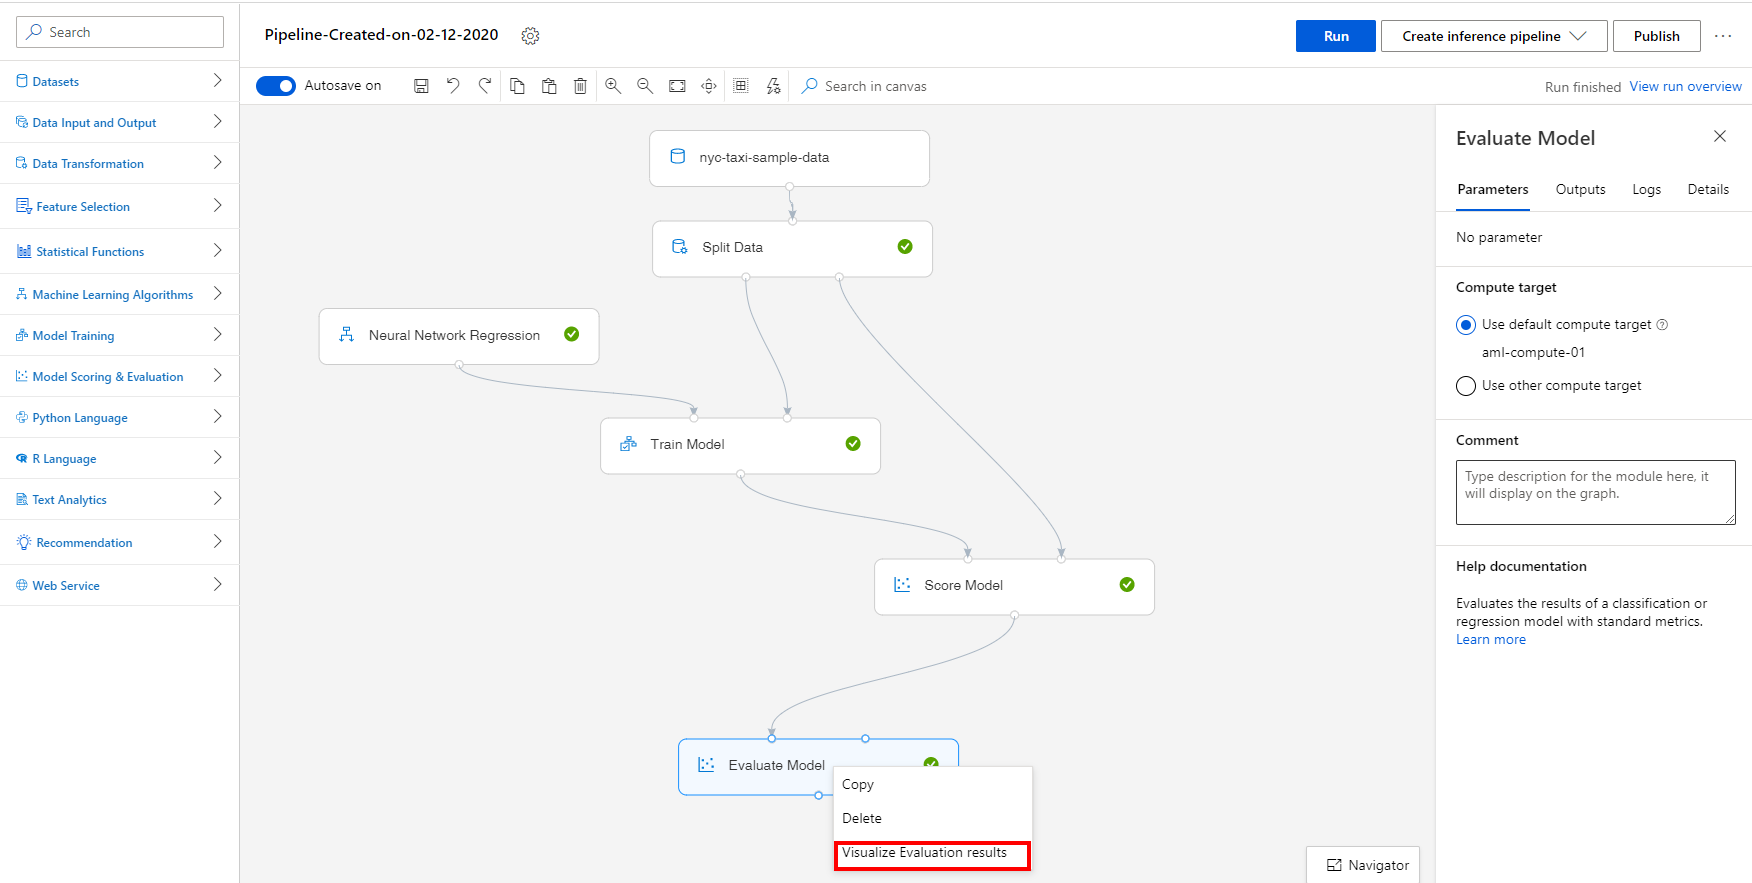
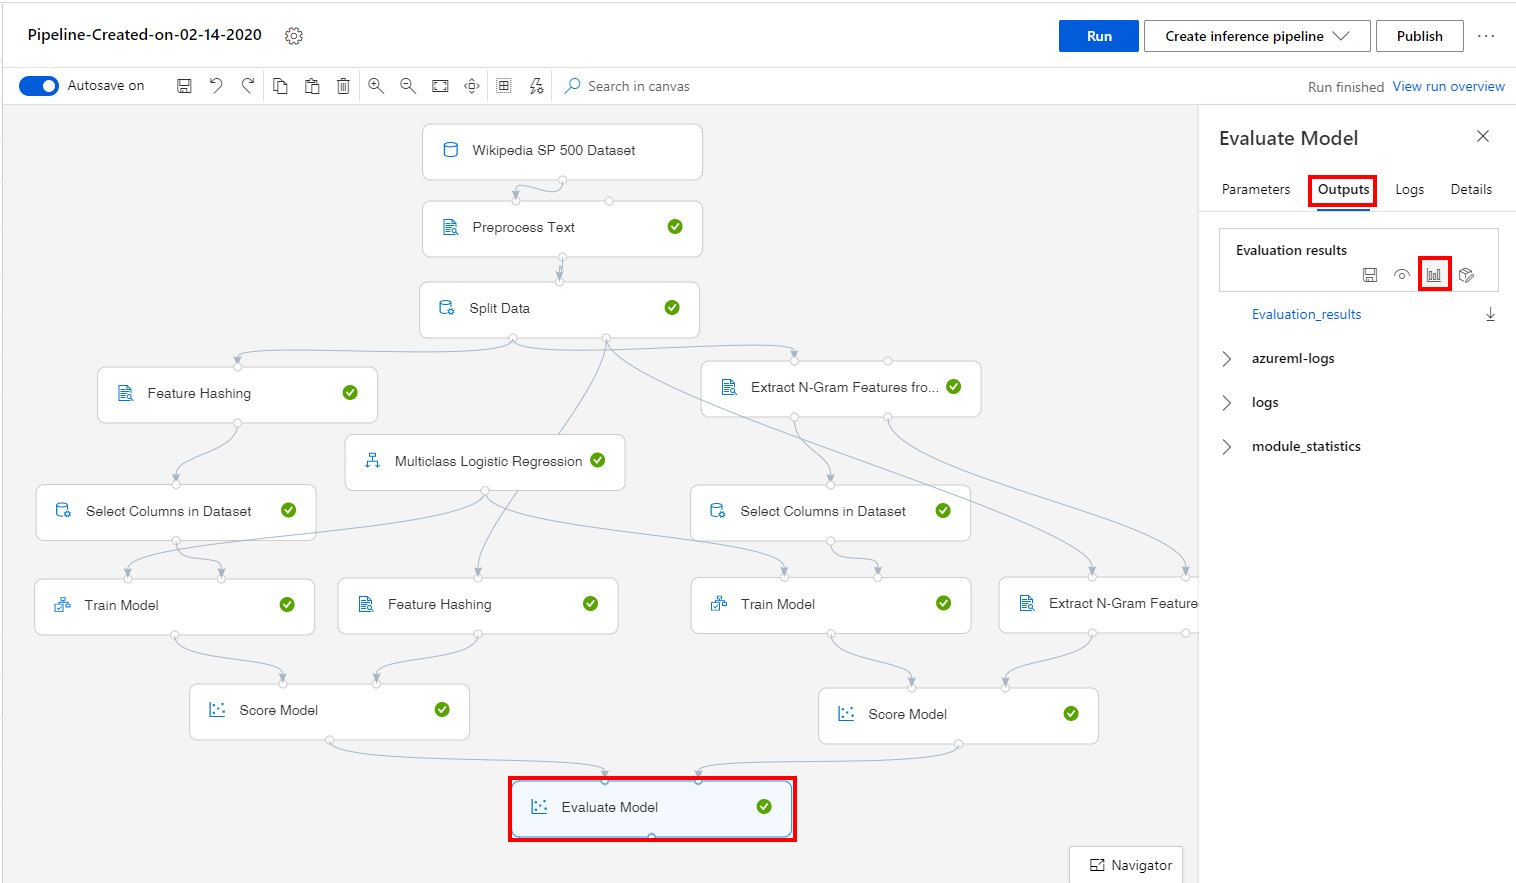
lab 16 content updated

diff --git a/aml-visual-interface/lab-16/README.md b/aml-visual-interface/lab-16/README.md
@@ -242,9 +242,9 @@ We will create a training pipeline and initialize a multiclass logistic regressi
 
 1. Select **Score Model, Outputs, Visualize** to open the `Score Model result visualization` dialog or just simply right-click the `Score Model` module and select **Visualize Scored Dataset**.
 
-    ![Image shows how to open the score model result visualization dialog.](images/20.png 'Score Model Results')
+    ![Image shows how to open the score model result visualization dialog.](images/21_0.png 'Score Model Results')
 
-2. Observe the predicted values under the column **Scored Labels**. You can compare the predicted values (`Scored Labels`) with actual values (`totalAmount`).
+2. Observe the predicted values under the column **Category**. 
 
     ![Image shows the score model result visualization dialog.](images/21.png 'Model Predictions')
 
@@ -254,10 +254,10 @@ We will create a training pipeline and initialize a multiclass logistic regressi
 
     ![Image shows how to open the evaluate model result visualization dialog.](images/22.png 'Evaluate Model Results')
 
-2. Evaluate the model performance by reviewing the various evaluation metrics, such as **Mean Absolute Error**, **Root Mean Squared Error**, etc.
+2. Evaluate the model performance by reviewing the various evaluation metrics.Evaluate Model has two input ports, so that we could evaluate and compare scored datasets that are generated with different methods. In this sample, we compare the performance of the result generated with feature hashing method and n-gram method. 
 
     ![Image shows the evaluate model result visualization dialog.](images/23.png 'Evaluation Metrics')
 
 # Next Steps
 
-Congratulations! You have trained a simple text classifier. You can continue to experiment in the environment but are free to close the lab environment tab and return to the Udacity portal to continue with the lesson.
+Congratulations! You have trained a simple text classifier and compared performance of the result generated with two different featurization modules. You can continue to experiment in the environment but are free to close the lab environment tab and return to the Udacity portal to continue with the lesson.
